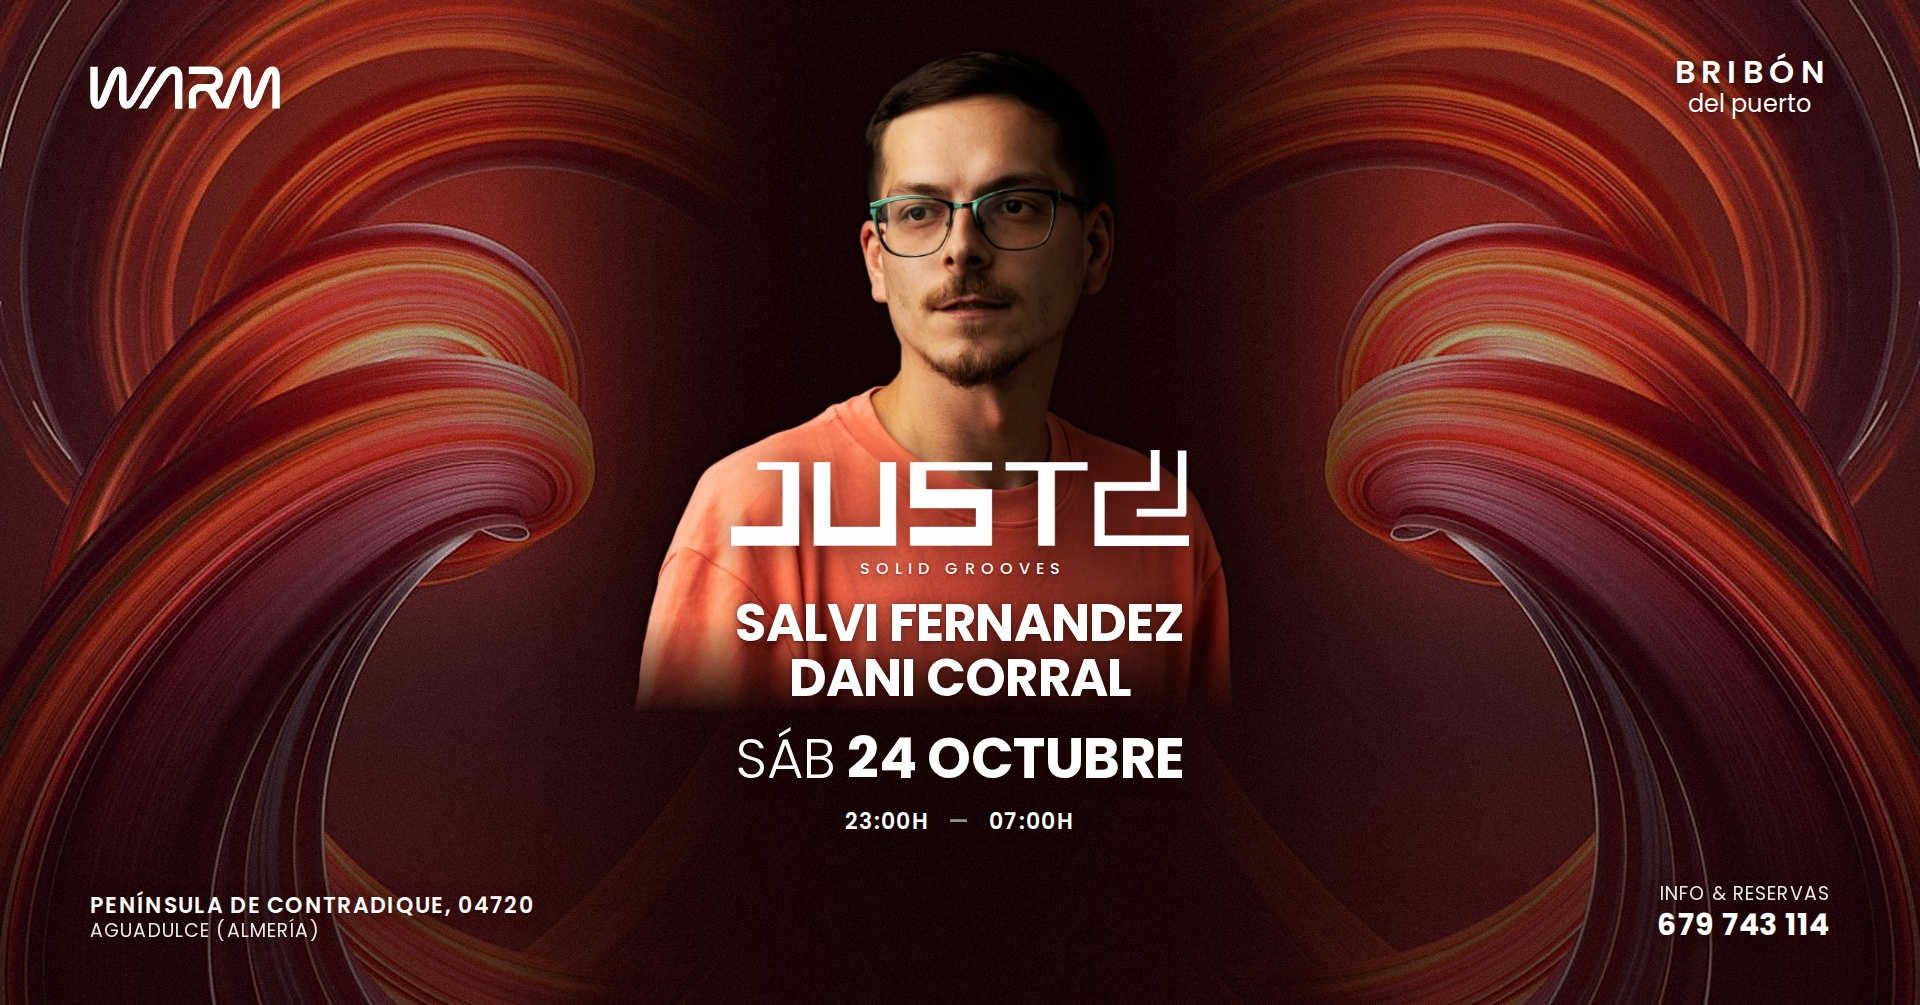
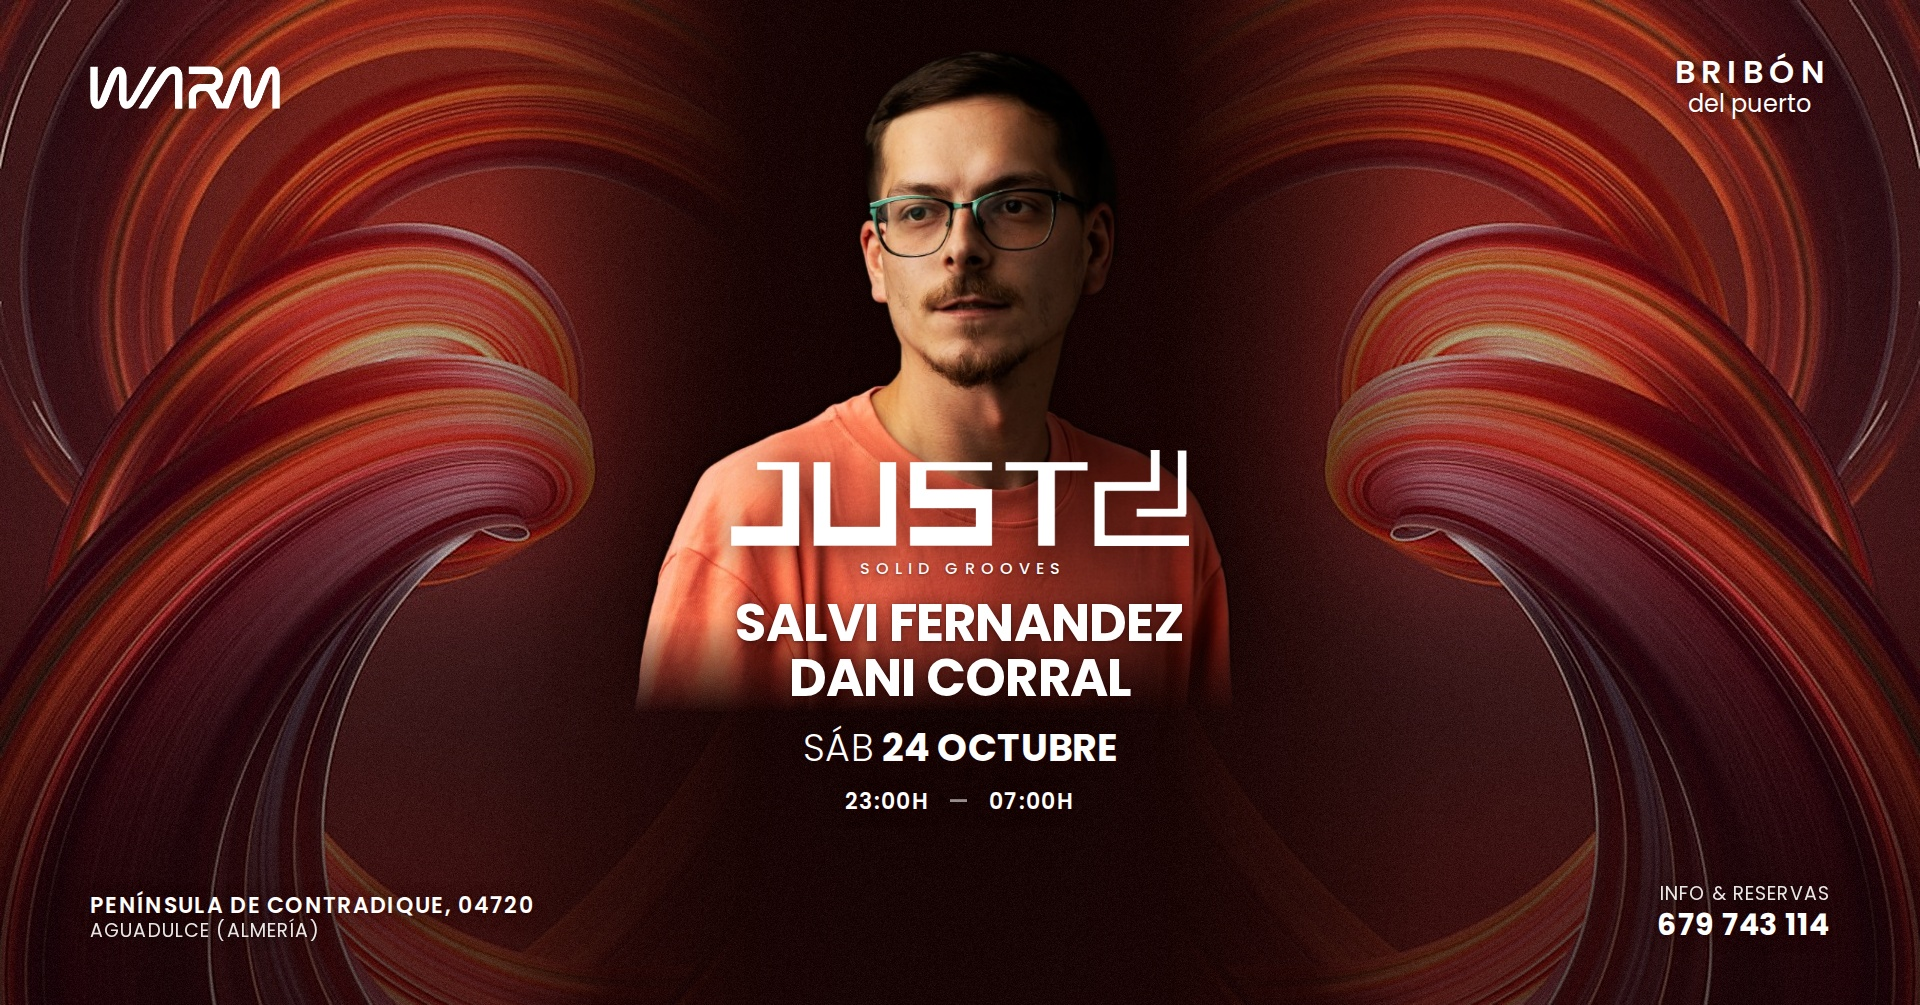
WARM 24.10 — coperte: data mai mică decât artiștii
Claude-Session: https://claude.ai/code/session_01PsYJ7xTqRMzxVLnVuQx1Lt

Changed region(s): [[0.375, 0.7095, 0.625, 0.8328]]

diff --git a/warm_24oct/cover_851_center.html b/warm_24oct/cover_851_center.html
@@ -16,7 +16,7 @@ img.sh{filter:drop-shadow(0 1px 7px rgba(40,5,0,.5))}
 .j2{height:26px}
 .label{font-weight:500;font-size:7px;letter-spacing:.38em;padding-left:.38em;margin:3px 0 4px}
 .n{font-weight:700;font-size:15px;line-height:1.05;letter-spacing:-.01em}
-.date{font-weight:700;font-size:15px;line-height:1;margin-top:6px;letter-spacing:-.005em}
+.date{font-weight:700;font-size:11.5px;line-height:1;margin-top:6px;letter-spacing:.01em}
 .date span{font-weight:300}
 .date em{display:block;font-style:normal;font-weight:600;font-size:10px;letter-spacing:.08em;margin-top:4px}
 .l2{font-weight:500;font-size:8.5px;letter-spacing:.07em;margin-top:7px;opacity:.92}

diff --git a/warm_24oct/cover_center.html b/warm_24oct/cover_center.html
@@ -15,7 +15,7 @@ img.sh{filter:drop-shadow(0 2px 14px rgba(40,5,0,.5))}
 .j2{height:96px}
 .label{font-weight:500;font-size:16px;letter-spacing:.38em;padding-left:.38em;margin:10px 0 14px}
 .n{font-weight:700;font-size:52px;line-height:1.06;letter-spacing:-.015em}
-.date{font-weight:700;font-size:56px;letter-spacing:-.01em;line-height:1;margin-top:26px}
+.date{font-weight:700;font-size:38px;letter-spacing:.01em;line-height:1;margin-top:24px}
 .date span{font-weight:300}
 .l1{font-weight:600;font-size:22px;letter-spacing:.06em;margin-top:18px}
 .l2{font-weight:500;font-size:17px;letter-spacing:.07em;margin-top:12px;opacity:.9}
